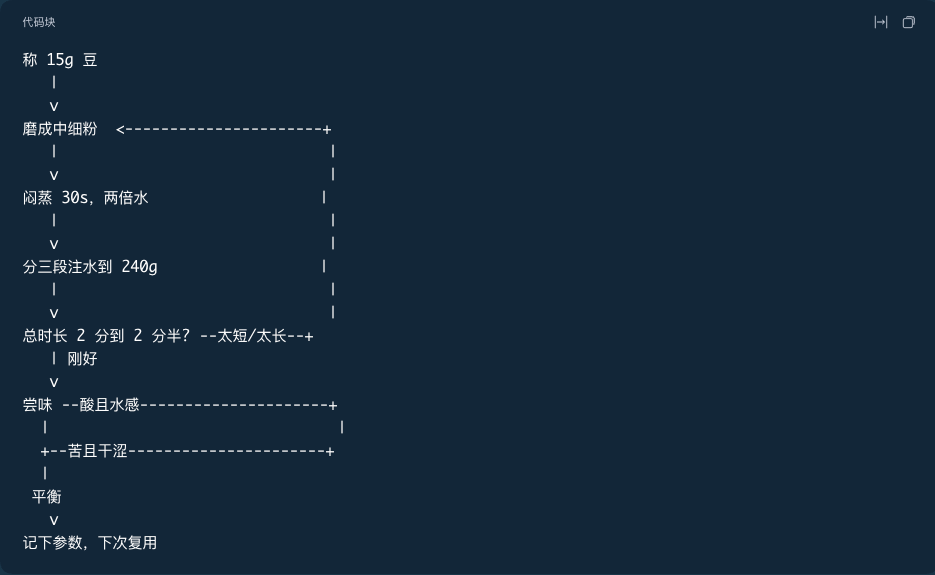
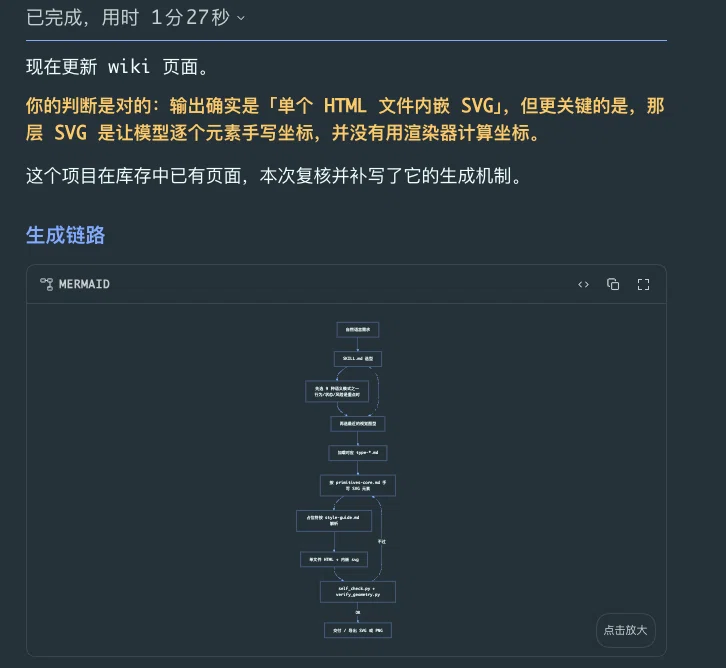
chore(friendly-expression): show three market screenshots in order
The market surfaces three images; the ASCII before-shot and the
duplicate after-shot took two of the slots. Lead with the rendered
Mermaid reply, keep the viewer and the settings page.

diff --git a/packages/friendly-expression/README.md b/packages/friendly-expression/README.md
@@ -24,15 +24,13 @@ dsh plugin --profile <profile> add link:/绝对路径/packages/friendly-expressi
 
 ## 截图
 
-从 ASCII 草图到可缩放的图：
+回复里的图直接渲染，点开可缩放、可存：
 
-![替换前：ASCII 方框箭头流程图](assets/screenshot-1.png)
+![回复中的 Mermaid 图：带「点击放大」](assets/screenshot-1.png)
 
-![替换后：同一张流程图的 Mermaid 渲染](assets/screenshot-2.png)
+![图表浮窗：缩放、适合窗口、下载 SVG](assets/screenshot-2.png)
 
-![图表浮窗：缩放、适合窗口、下载 SVG](assets/screenshot-3.png)
-
-![设置页：可编辑的表达提示词](assets/screenshot-4.png)
+![设置页：可编辑的表达提示词](assets/screenshot-3.png)
 
 ## 配置
 
